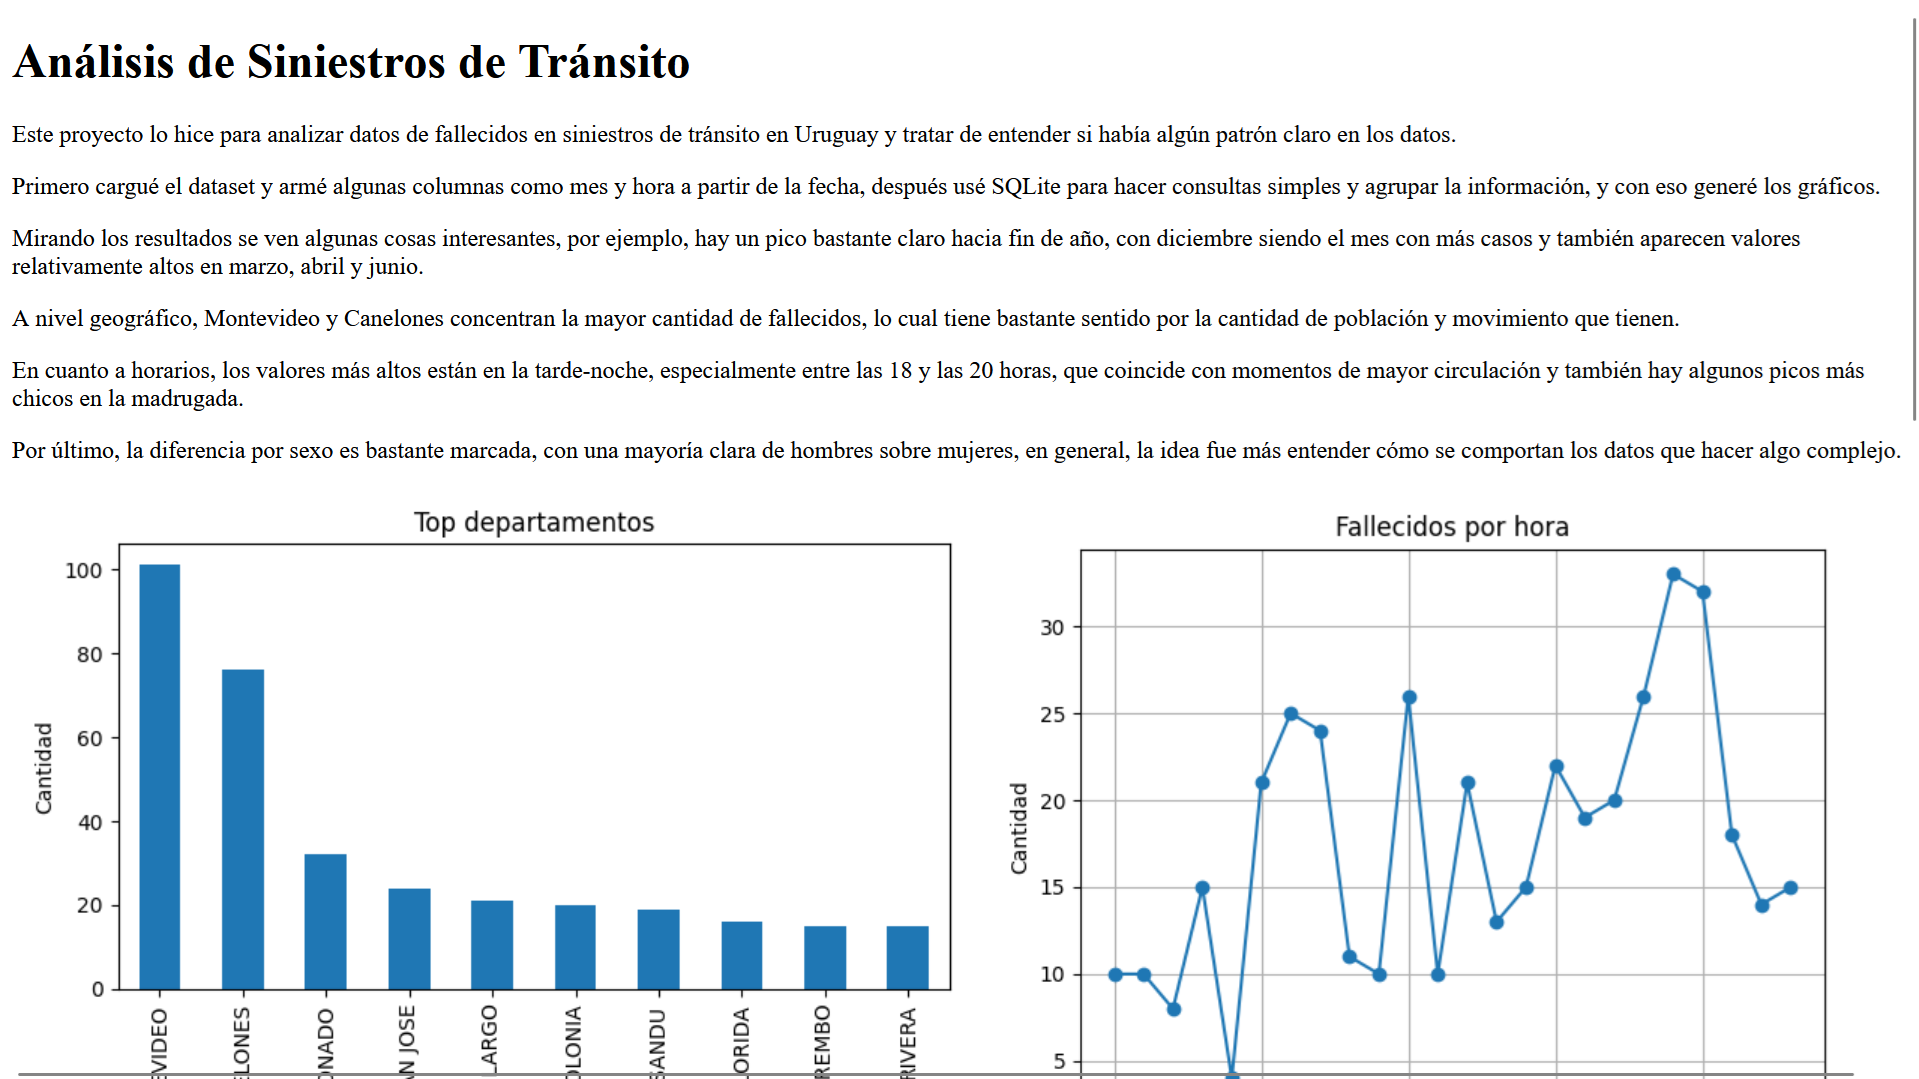
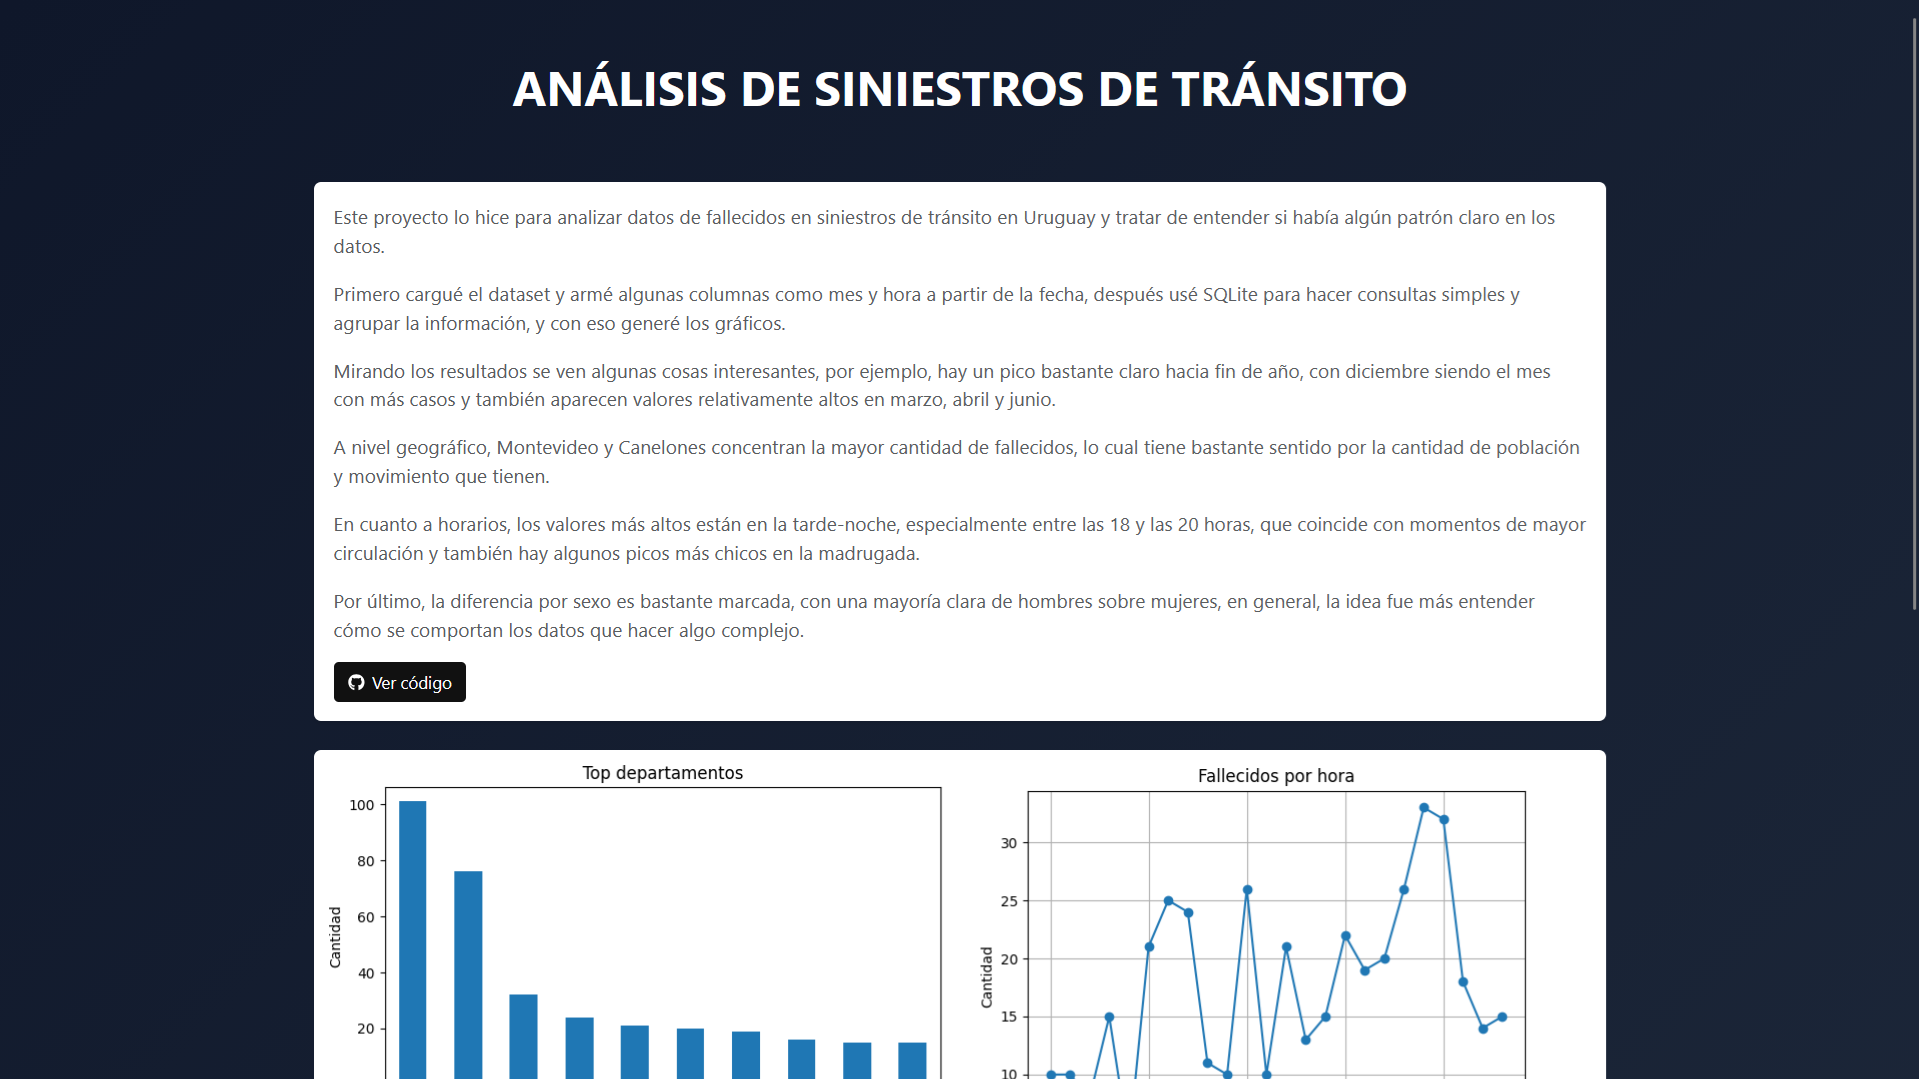
ss

diff --git a/src/App.jsx b/src/App.jsx
@@ -20,7 +20,7 @@ export default function App() {
                 </div>
               </a>
               <Card.Body>
-                <Card.Title>Airbnb Price Predictor</Card.Title>
+                <Card.Title>Estimador de Precios Airbnb</Card.Title>
                 <Card.Text>
                   Modelo de machine learning para estimar precios, comparando Regresión Lineal y Random Forest.
                 </Card.Text>